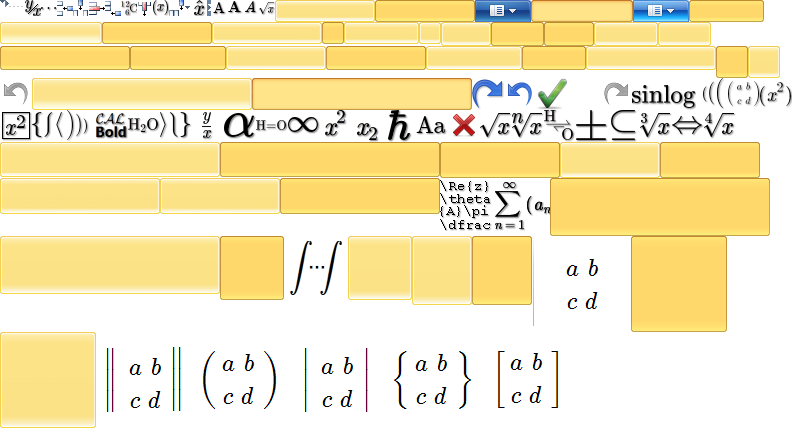
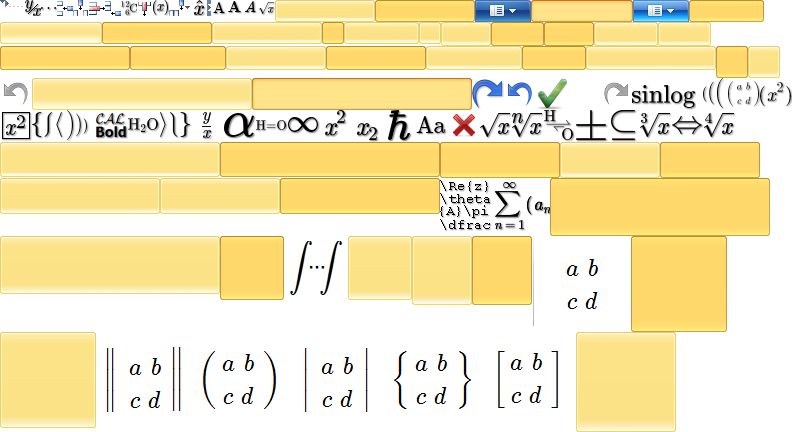
fix (last image's name has been replaced with previous one)
git-svn-id: svn://suivarro/touchstone/trunk@4131 8d9c46d6-3bce-41d5-b1ab-56de0fb72b2f

Changed region(s): [[0.7188, 0.7523, 0.8438, 1.0]]

diff --git a/tools/mee/mee/js/mee.images.js b/tools/mee/mee/js/mee.images.js
@@ -108,5 +108,5 @@ MEE.Data.images = {
 	'tbicons/matrix5.png': { left: 288, top: 332, width: 96, height: 96 },
 	'tbicons/matrix4.png': { left: 384, top: 332, width: 96, height: 96 },
 	'tbicons/matrix3.png': { left: 480, top: 332, width: 96, height: 96 },
-	'tbicons/matrix3.png': { left: 480, top: 332, width: 96, height: 96 },
+	'toolbar/sizes/temp.png': { left: 576, top: 332, width: 100, height: 100 },
 'zzz': 'zzz' };

diff --git a/tools/mee/mee/tools/combine_images.php b/tools/mee/mee/tools/combine_images.php
@@ -80,6 +80,7 @@ foreach($images as &$img)
 	
 	$left += $img['width'];
 }
+unset($img);
 
 $totalheight = $top + $rowheight;
 
@@ -94,6 +95,7 @@ $output = "MEE.Data.images = {\n";
 foreach($images as $img)
 {
 	//imagealphablending( $img['im'], true );
+  echo $img['name'].'<br>';
 	imagecopy($resim, $img['im'], $img['left'], $img['top'], 0, 0, $img['width'], $img['height']);
 	$output .= "\t'{$img['name']}': { left: {$img['left']}, top: {$img['top']}, width: {$img['width']}, height: {$img['height']} },\n";
 }
